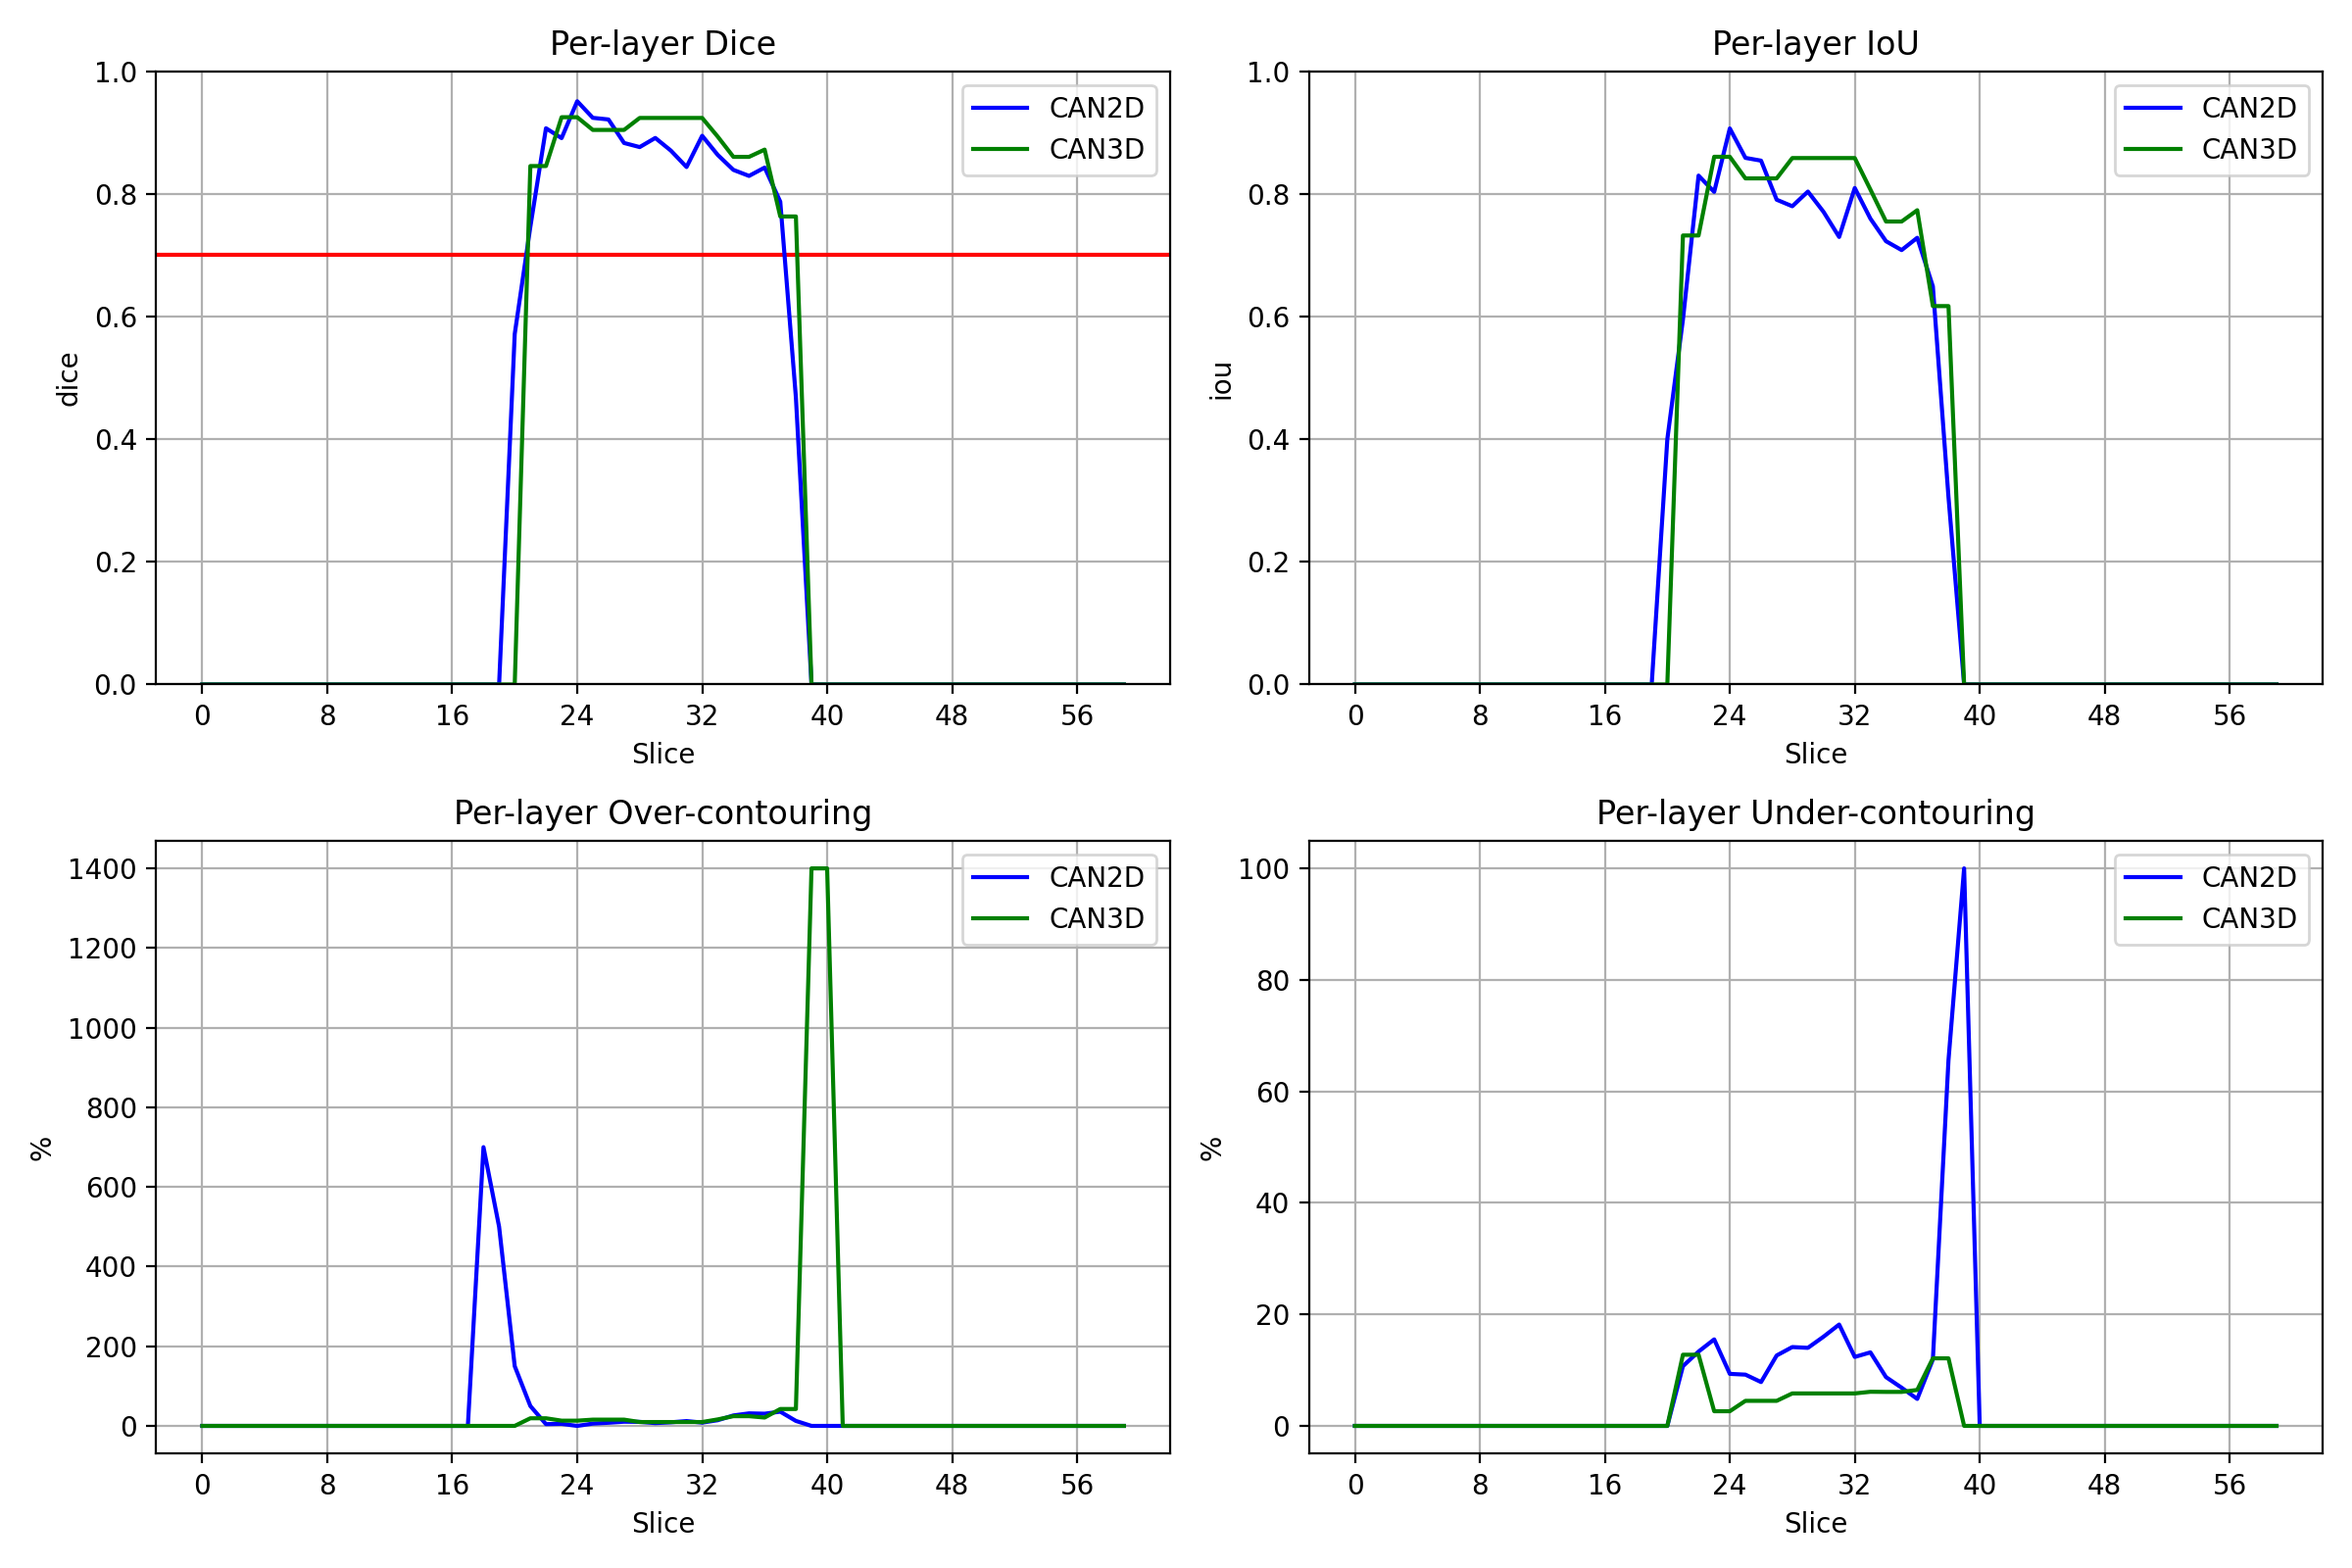
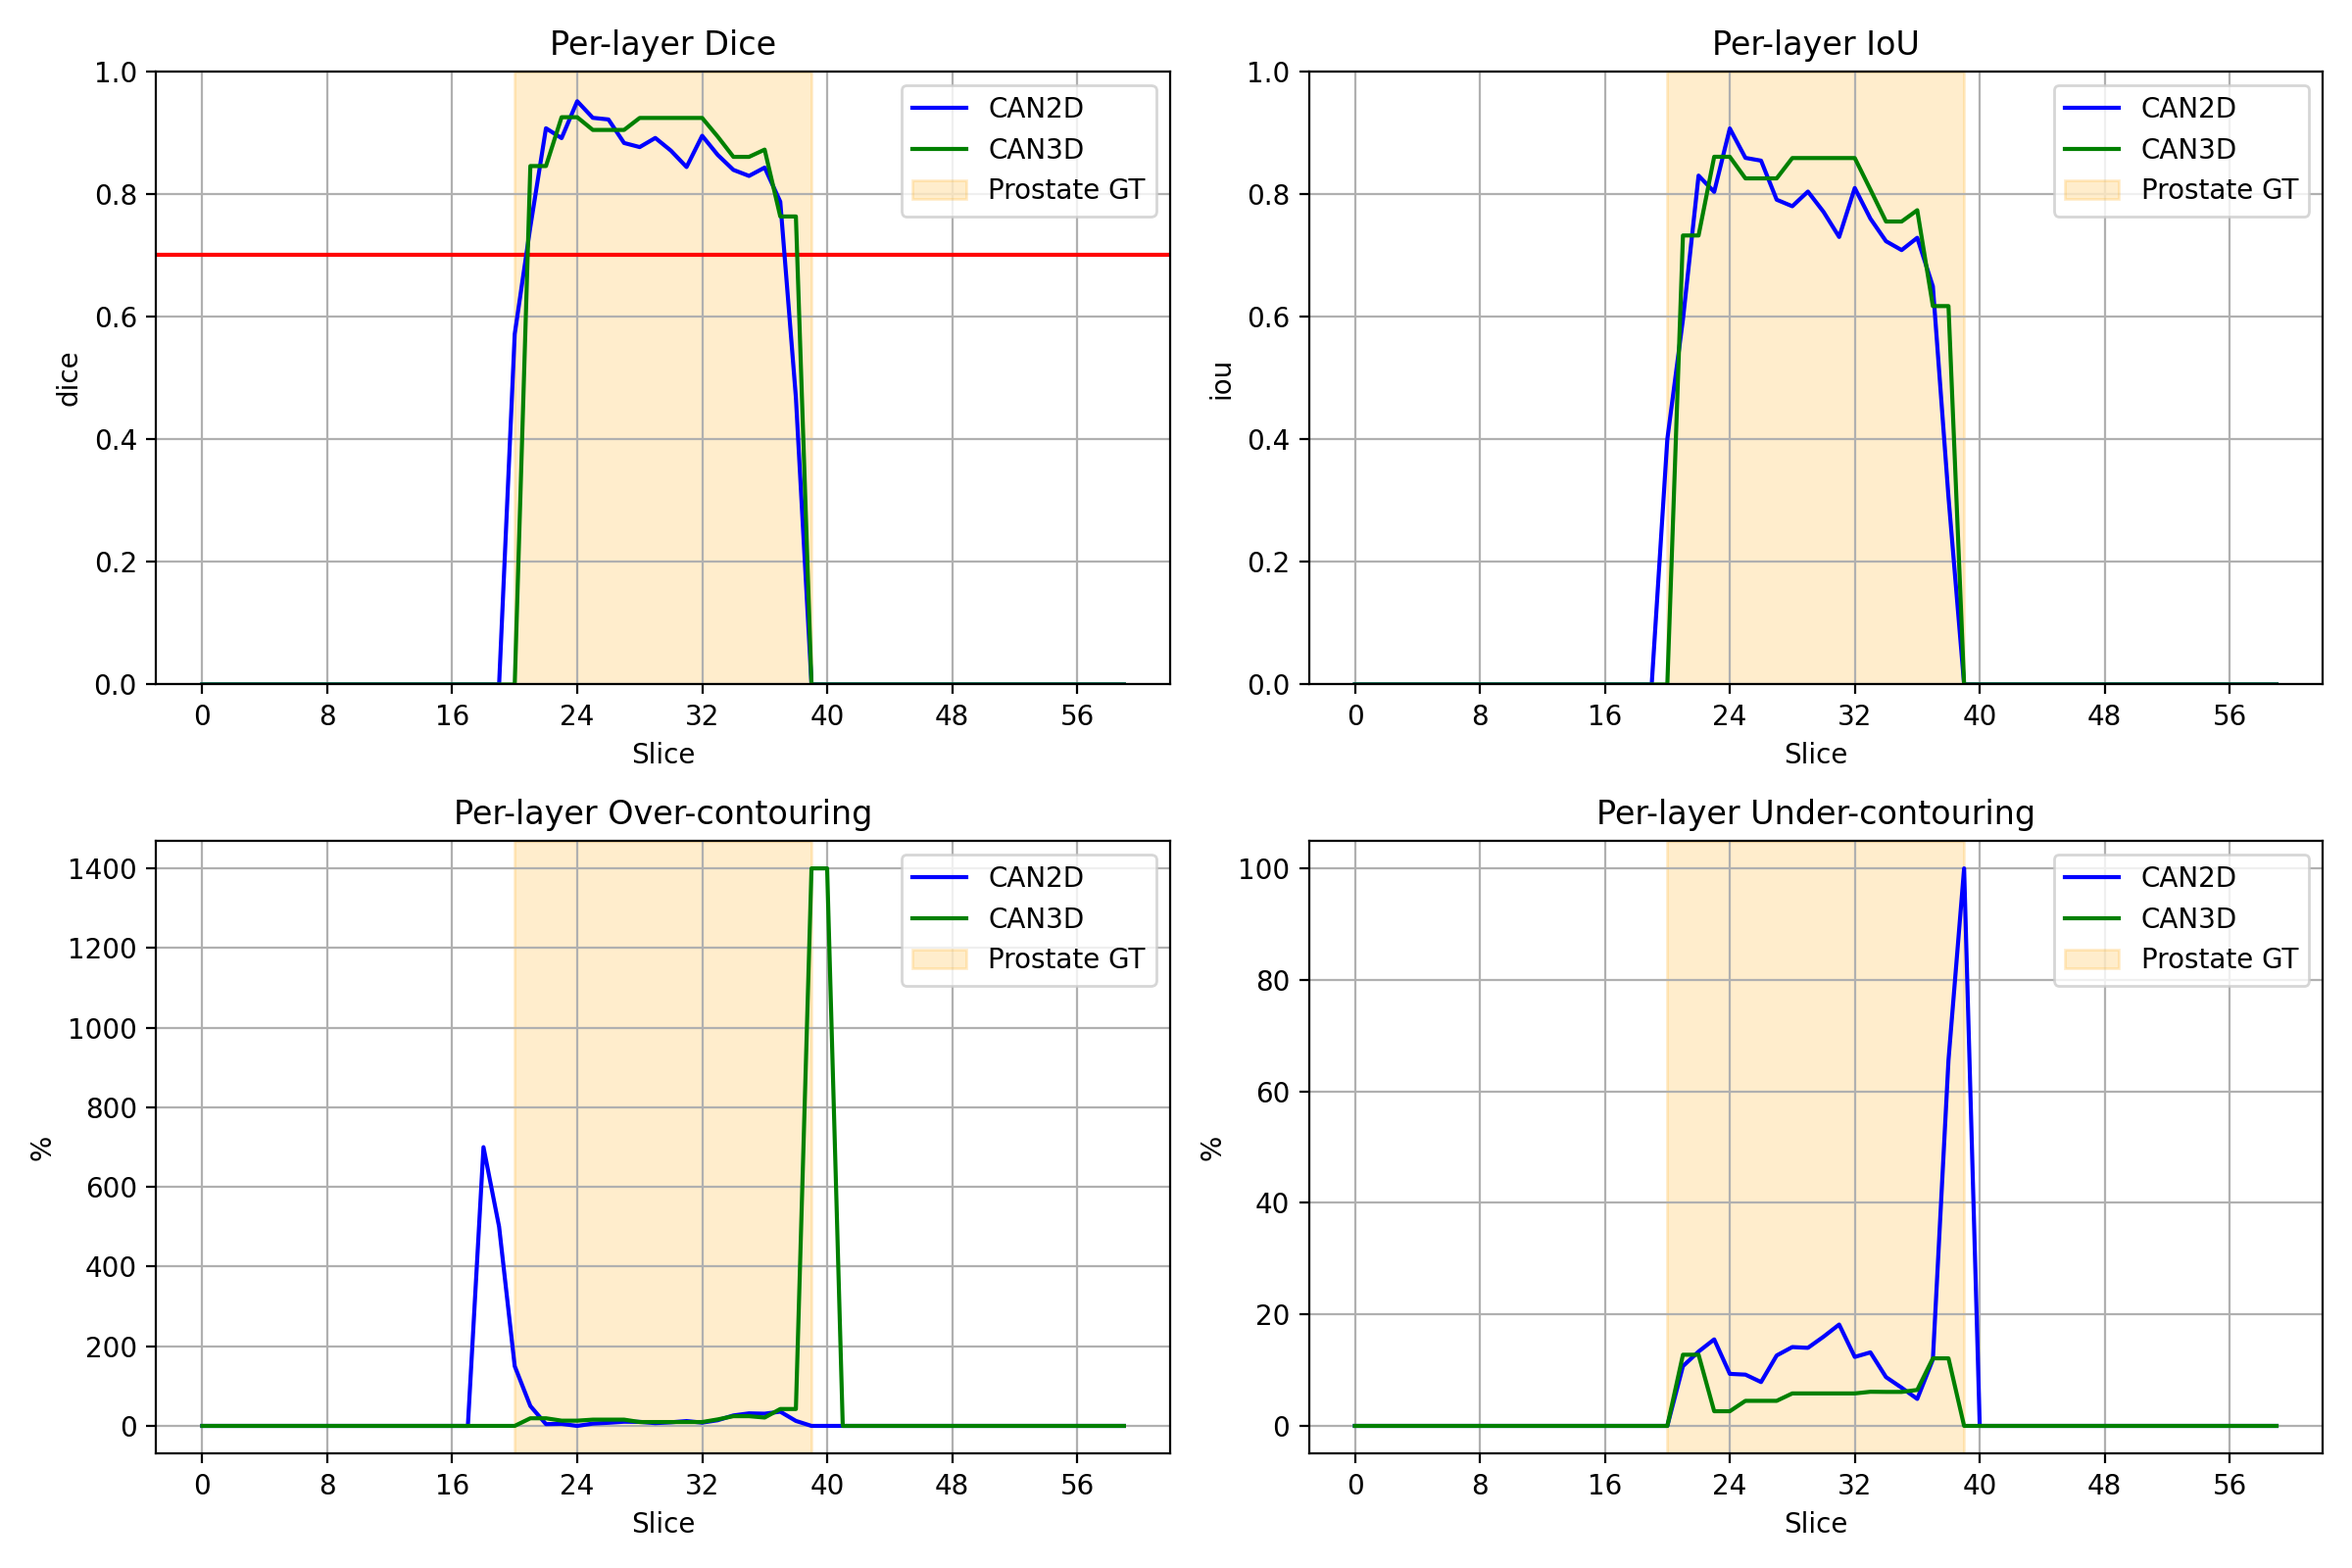
Plot slice metrics now include the ground truth prostate mask

diff --git a/recognition/CAN3D_s5048803/predict.py b/recognition/CAN3D_s5048803/predict.py
@@ -218,13 +218,12 @@ def slice_metrics(pred, y):
 		for name, values in results.items()
 	}
 
-def plot_slice_metrics(results2d, results3d, cls, x):
+def plot_slice_metrics(results2d, results3d, has_prostate, cls, x):
 	metrics_to_plot = ["dice", "iou", "over", "under"]
 	titles = ["Dice", "IoU", "Over-contouring", "Under-contouring"]
 
 	fig, ax = plt.subplots(2, 2, figsize=(12, 8))
 	ax = ax.flatten()
-
 	for a, metric, title in zip(ax, metrics_to_plot, titles):
 		values2d = results2d[metric][:, cls - 1].numpy()
 		values3d = results3d[metric][:, cls - 1].numpy()
@@ -233,6 +232,13 @@ def plot_slice_metrics(results2d, results3d, cls, x):
 
 		a.plot(x, values2d, color='blue', label="CAN2D")
 		a.plot(x, values3d, color='green', label="CAN3D")
+
+		# Plot the prostate ground truth area
+		prostate_segment = np.flatnonzero(has_prostate)
+		lo = x[prostate_segment[0]]
+		hi = x[prostate_segment[-1]]
+		a.axvspan(lo, hi, color="orange", alpha=0.2, label="Prostate GT")
+
 		a.set_title(f"Per-layer {title}")
 		a.set_xlabel("Slice")
 		a.set_ylabel("%" if metric in ("over", "under") else metric)
@@ -294,7 +300,10 @@ def compare_slice_metrics(runs, root, vol, cls, device, scale2d):
 	idx = score.argmax(1)
 
 
-	y3, pred3 = planes(y3)[idx], planes(pred3)[idx]
+	y3 = planes(y3)[idx]
+	pred3 = planes(pred3)[idx]
+
+	has_prostate = (y2 == cls).flatten(1).any(1).numpy() 
 
 	results2d = slice_metrics(pred2, y2)
 	results3d = slice_metrics(pred3, y3)
@@ -302,6 +311,7 @@ def compare_slice_metrics(runs, root, vol, cls, device, scale2d):
 	plot_slice_metrics(
 		results2d,
 		results3d,
+		has_prostate,
 		cls,
 		nums
 	)
